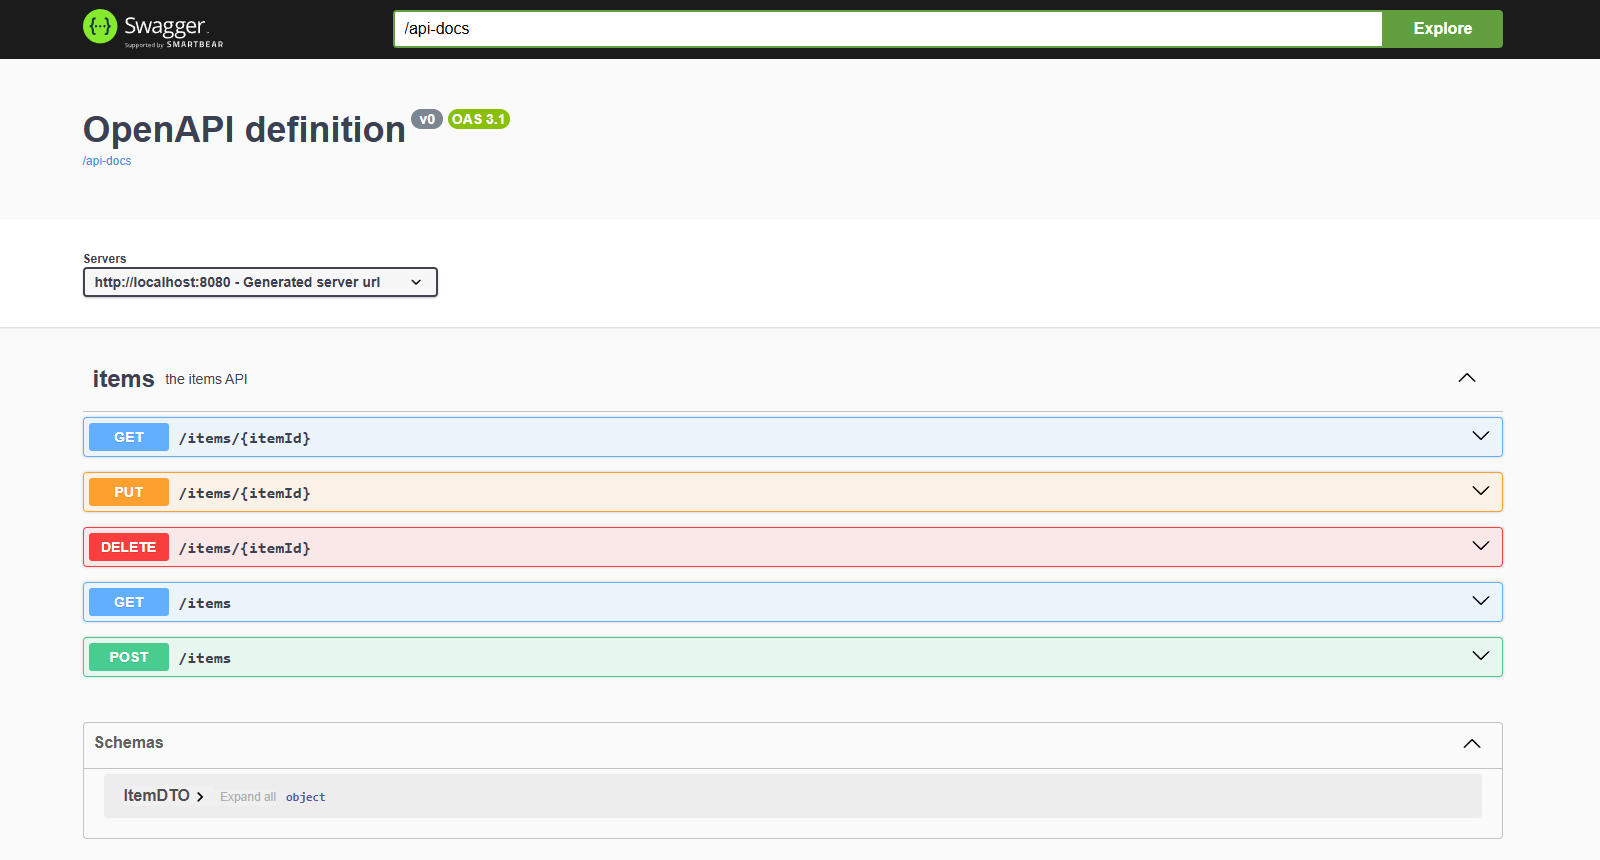
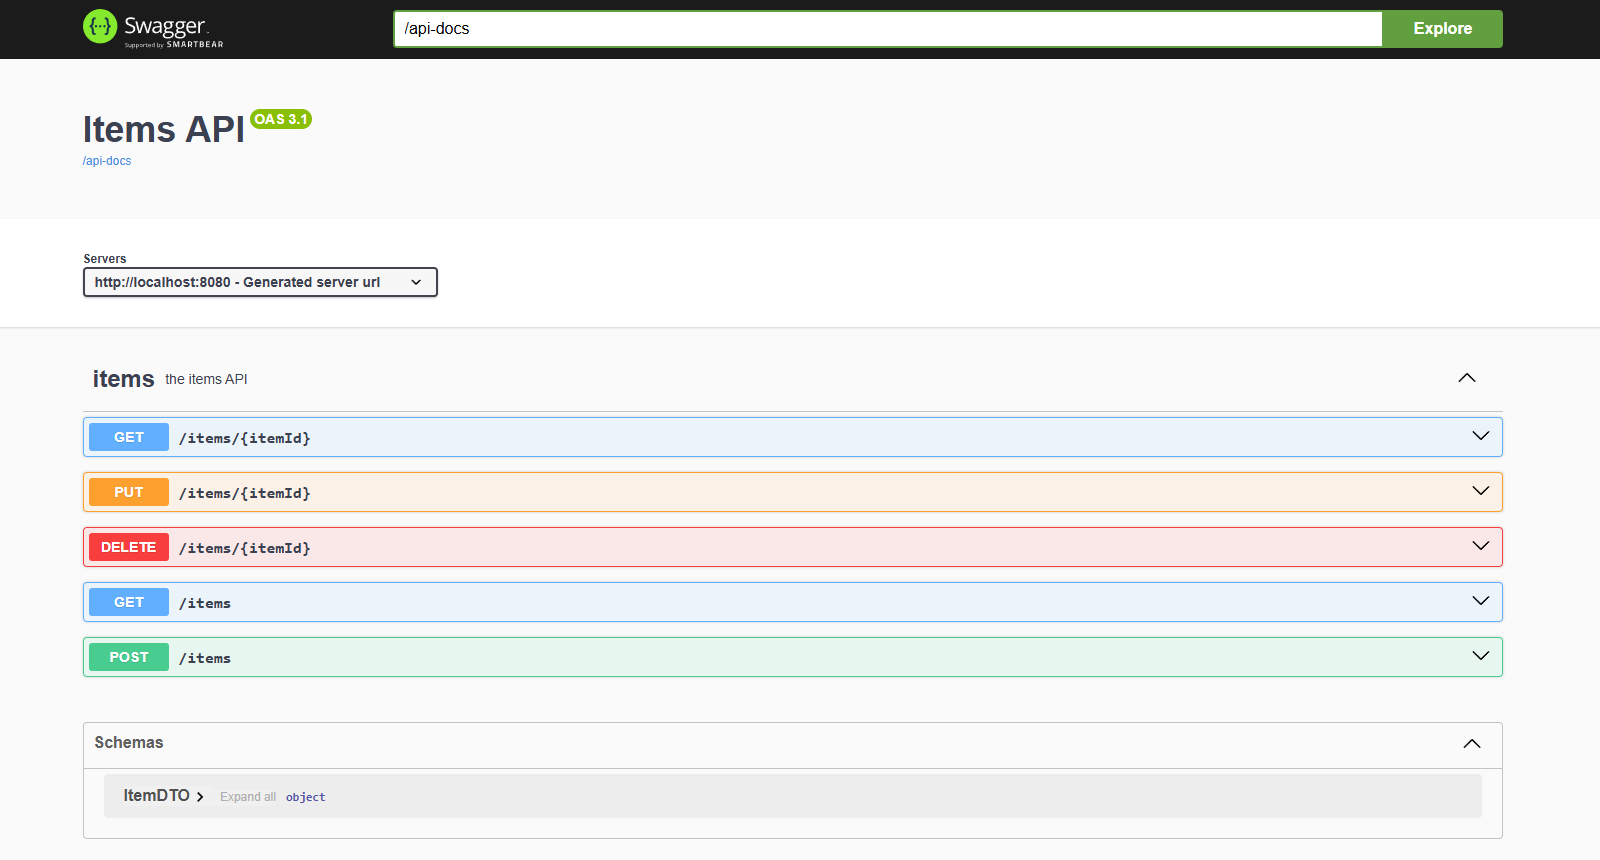
API title set to Items API

Changed region(s): [[0.0312, 0.1209, 0.3438, 0.1814]]

diff --git a/src/test/java/template/infrastructure/OpenApiIntegrationTest.java b/src/test/java/template/infrastructure/OpenApiIntegrationTest.java
@@ -4,6 +4,7 @@ import org.junit.jupiter.api.Test;
 import template.AbstractIntegrationTest;
 
 import static io.restassured.RestAssured.when;
+import static org.hamcrest.Matchers.containsString;
 
 public class OpenApiIntegrationTest extends AbstractIntegrationTest {
 
@@ -12,6 +13,8 @@ public class OpenApiIntegrationTest extends AbstractIntegrationTest {
         when()
                 .get("/api-docs")
                 .then()
-                .statusCode(200);
+                .statusCode(200)
+                .body(containsString("Items API"));
     }
+
 }

diff --git a/src/main/java/template/Application.java b/src/main/java/template/Application.java
@@ -1,10 +1,13 @@
 package template;
 
+import io.swagger.v3.oas.annotations.OpenAPIDefinition;
+import io.swagger.v3.oas.annotations.info.Info;
 import org.springframework.boot.autoconfigure.SpringBootApplication;
 
 import static org.springframework.boot.SpringApplication.run;
 
 @SpringBootApplication
+@OpenAPIDefinition(info = @Info(title = "Items API"))
 public class Application {
 
     public static void main(String[] args) {
